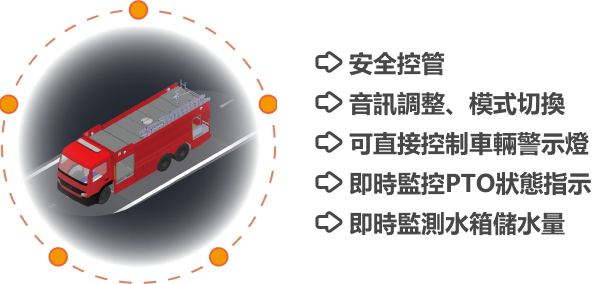
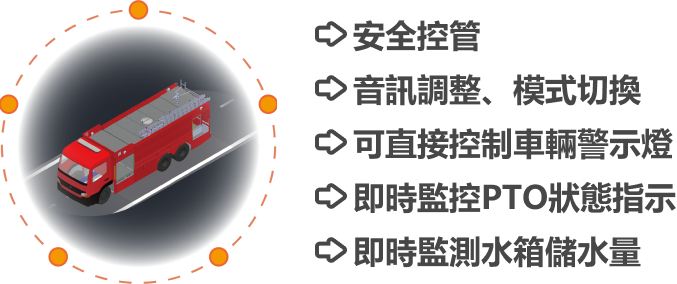
ipad首頁名字位置調整

diff --git a/index.css b/index.css
@@ -476,7 +476,7 @@ li::marker {
         width: 45%;
     }
     .name {
-        right: 6vw;
+        right: 26vw;
         line-height: 1.3;
         top: 9vh;
     }
